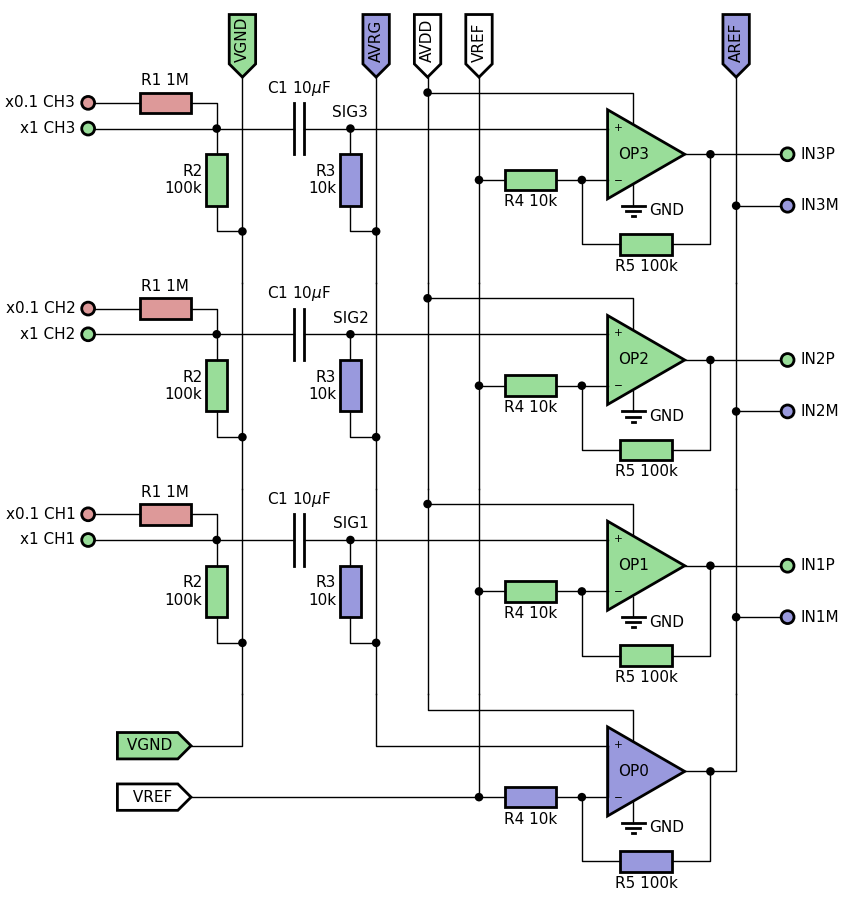
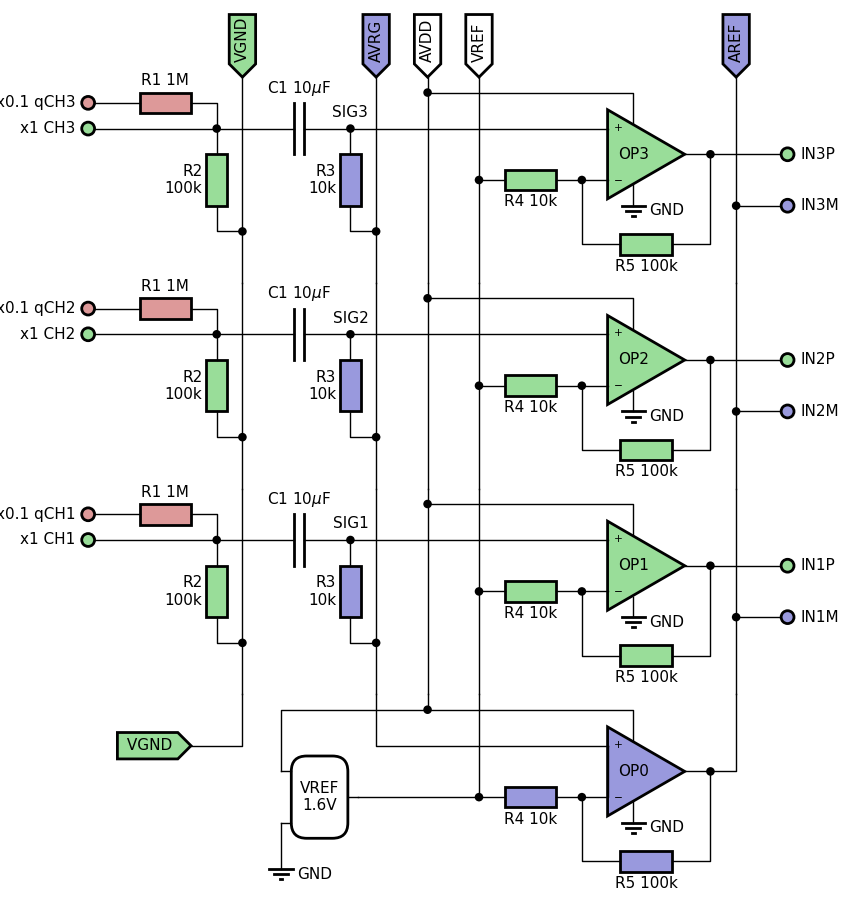
[R5.0] added VREF IC

diff --git a/R5.0/amplifiers.py b/R5.0/amplifiers.py
@@ -100,19 +100,24 @@ def refamp(pos):
                                     **refamp_style)
     gnd1 = ax.ground(pg.down(0.5), 'GND')
     ax.connect((pg, gnd1))
-    npwr = pw.up(0.6).left(4)
+    npwr = ax.node(pw.up(0.6).left(4))
     ax.connect((pw, npwr, npwr.up(0.3)))
+
+    npr = pp.left(4.5)
+    ax.connect((npr.up(1), npr, pp))
 
     ng1 = ax.node(pn.left(0.5))
     r4l, r4r = ax.resistance_h(ng1.left(1), f'R4 {R4}', 'below',
                                **refamp_style)
     nr1 = ax.node(r4l.left(0.5))
-    nr2 = ax.bus(nr1.left(5.6), ' VREF', 'left')
-    ax.connect((nr2, nr1, r4l, None, r4r, ng1, pp))
+    pl, pr, pt, pb = ax.chip(nr1.left(3.1), pins_left=['', None, ''],
+                             pins_right=[None, '', None],
+                             pins_top=1, label='VREF\n1.6V', align='center')
+    ax.connect((pr[0], nr1, r4l, None, r4r, ng1, pp))
     ax.connect((nr1, nr1.up(2)))
-
-    npr = pp.left(4.5)
-    ax.connect((npr.up(1), npr, pp))
+    ax.connect((npwr, pl[0]))
+    gnd2 = ax.ground(pl[1].down(1), 'GND')
+    ax.connect((pl[1], gnd2))
 
     ng2 = ax.node(po.right(0.5))
     no = ng2.right(0.5).up(1.5)
